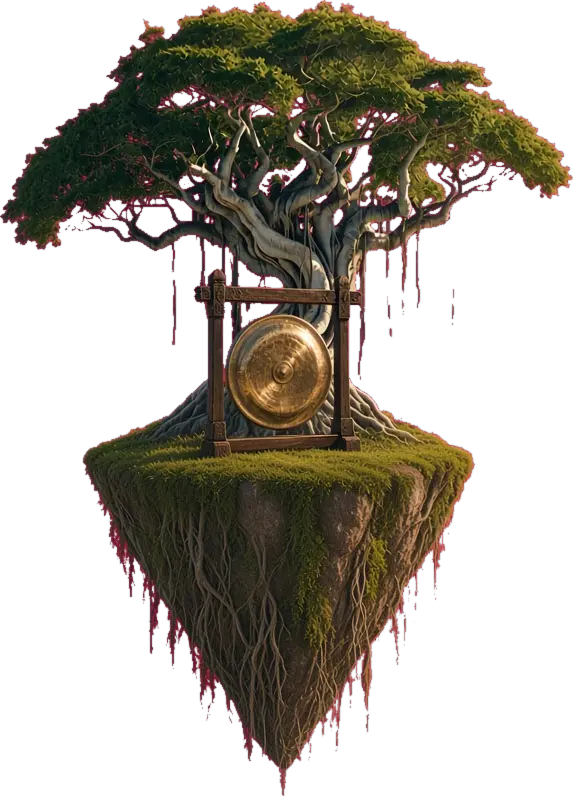
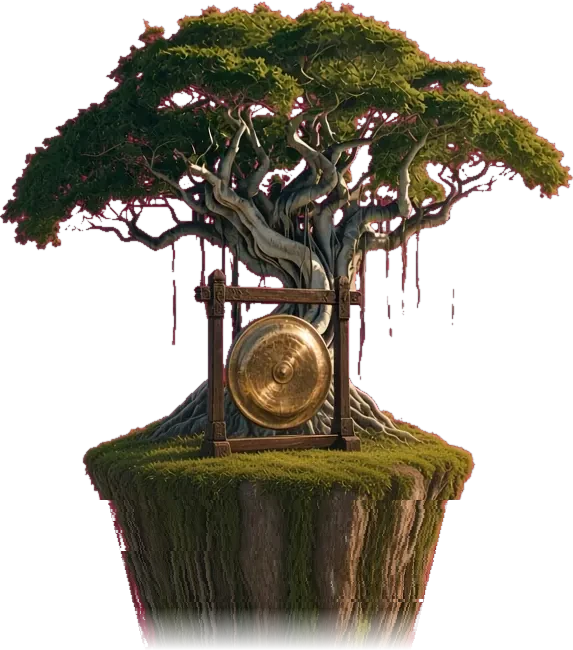
Make the ledge trail the default home.
The sticky header is solid cream so the trail cannot scroll through Parent and Teacher Materials. Unit 1 keeps a wide plateau, and the old zigzag stays available with ?home=zigzag. Cache ir-20261128d.

diff --git a/js/screens.js b/js/screens.js
@@ -379,7 +379,7 @@
     const place = trailPlace();
     const atFoundations = continueTarget().href.indexOf('#/foundation') === 0;
     const hereUnit = atFoundations ? 0 : place.here;
-    const ledgesHome = /[?&]home=ledges\b/.test(location.search);
+    const ledgesHome = !/[?&]home=zigzag\b/.test(location.search);
     const coilSide = (n) => (n % 2 === 1 ? 'r' : 'l');
     /* Paint Zip and Frill into the island daylight: drop the studio edge, warm the light, and leave no halo. */
     function paintIntoScene(img, done) {
@@ -1035,7 +1035,8 @@
       ctx.save();
       ctx.translate(left.x, left.y);
       ctx.rotate(ang);
-      ctx.drawImage(img, box.minX, box.minY, bw, bh, 0, -rail * 0.34, dist, rail);
+      const tuck = Math.min(36, dist * 0.08);
+      ctx.drawImage(img, box.minX, box.minY, bw, bh, -tuck, -rail * 0.32, dist + tuck * 2, rail);
       ctx.restore();
     }
     function layoutPath() {

diff --git a/styles.css b/styles.css
@@ -4003,6 +4003,7 @@ body:has(.tmscreen) #soundfix,body:has(.u123step) #soundfix,body:has(.u789step) 
   .skyhome .skylbl b{font-size:.95rem}
   .skyhome .skylbl small{font-size:.74rem}
   .skyhome .mwrap > .hbanner{position:sticky;top:0;z-index:24;background:linear-gradient(#e7f4fb 70%, rgba(231,244,251,0));padding-top:.4rem}
+  .skyhome.ledges .mwrap > .hbanner{z-index:40;background:#FFF8E7;padding-bottom:.55rem}
 }
 .skyhome.ledges .skyline,.skyhome.ledges .skystones{stroke:none}
 .skyhome.ledges .skywalk{display:none}

diff --git a/sw.js b/sw.js
@@ -1,7 +1,7 @@
 /* Island Readers sample service worker.
    Code (HTML/JS/CSS/data) is network-first so a new version always wins; the cache is only an offline fallback.
    Media (images/audio/video) is cache-first. Install never fails because of one file. */
-const CACHE = 'ir-20261128c';
+const CACHE = 'ir-20261128d';
 const ASSETS = [
  "./index.html",
  "./js/wordplay.js",
